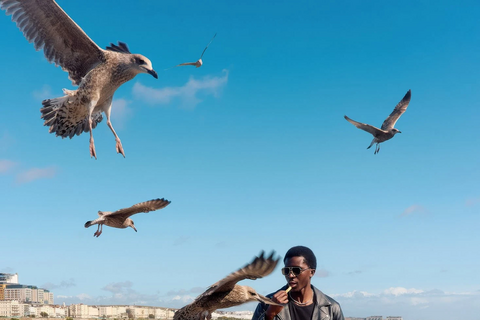
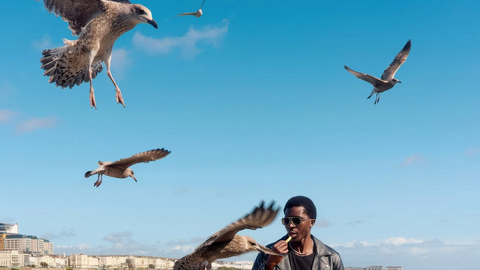
Steganographie card: the gulls cropped to 16:9 so the man stays in the picture

diff --git a/src/content/steganography/beispiele/make_examples.py b/src/content/steganography/beispiele/make_examples.py
@@ -15,8 +15,9 @@ strandhaeuser.png and moewen.png are two street photos by Ian Kobylanski
 - ../klassen.webp: the same sky full at about 9 bits per pixel, once with
   RGB boxes (8 values per channel) and once with Lab classes 78 x 48 x 46.
 - ../teaser.webp: the gulls with the same message hidden in them, for the
-  activity's card: a photo that looks innocent. (The site scales card
-  pictures, so the message does not survive there.)
+  activity's card: a photo that looks innocent, cropped to 16:9 like the
+  card so that the man stays in it. (The site scales card pictures, so the
+  message does not survive there.)
 
 The three PNGs also go into src/static/steganography/, where the page
 offers them for download.
@@ -115,7 +116,7 @@ def klassen():
 
 
 def teaser():
-    gulls = Image.open(os.path.join(HERE, 'moewen.png')).convert('RGB')
+    gulls = Image.open(os.path.join(HERE, 'moewen.png')).convert('RGB').crop((0, 50, 480, 320))
     hide(gulls, MESSAGE).save(os.path.join(HERE, '..', 'teaser.webp'), lossless=True)
 
 
